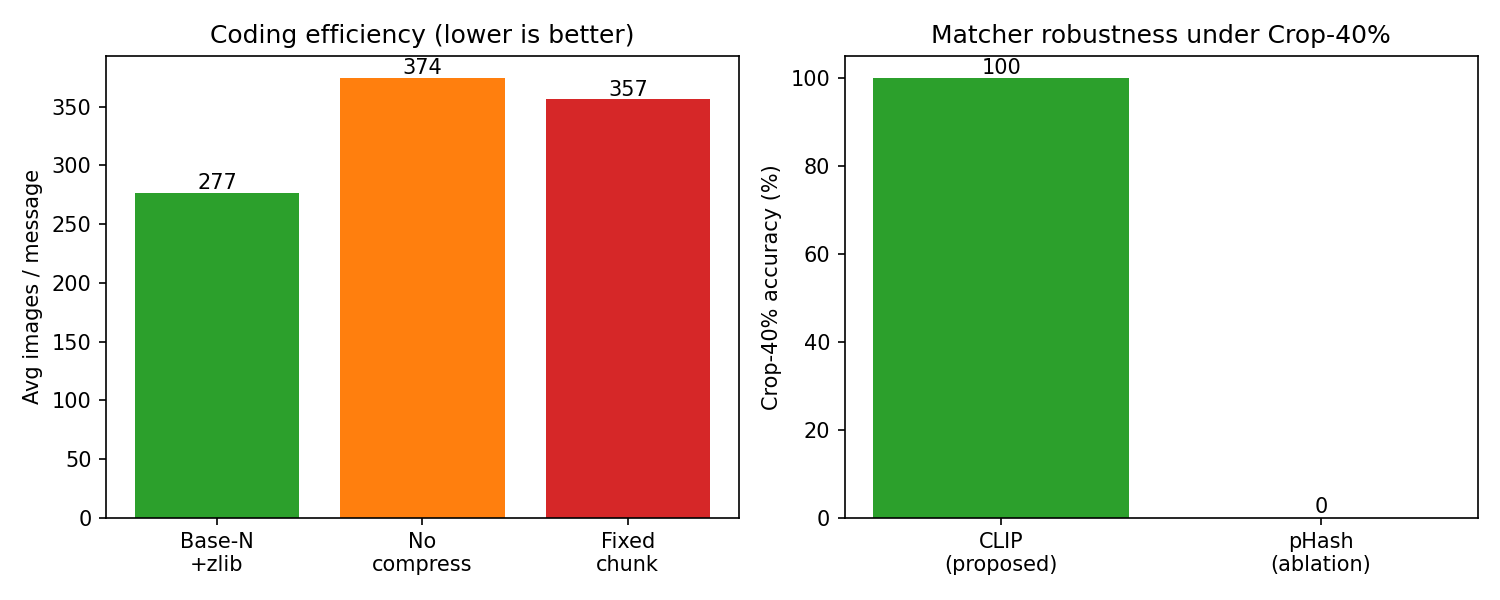
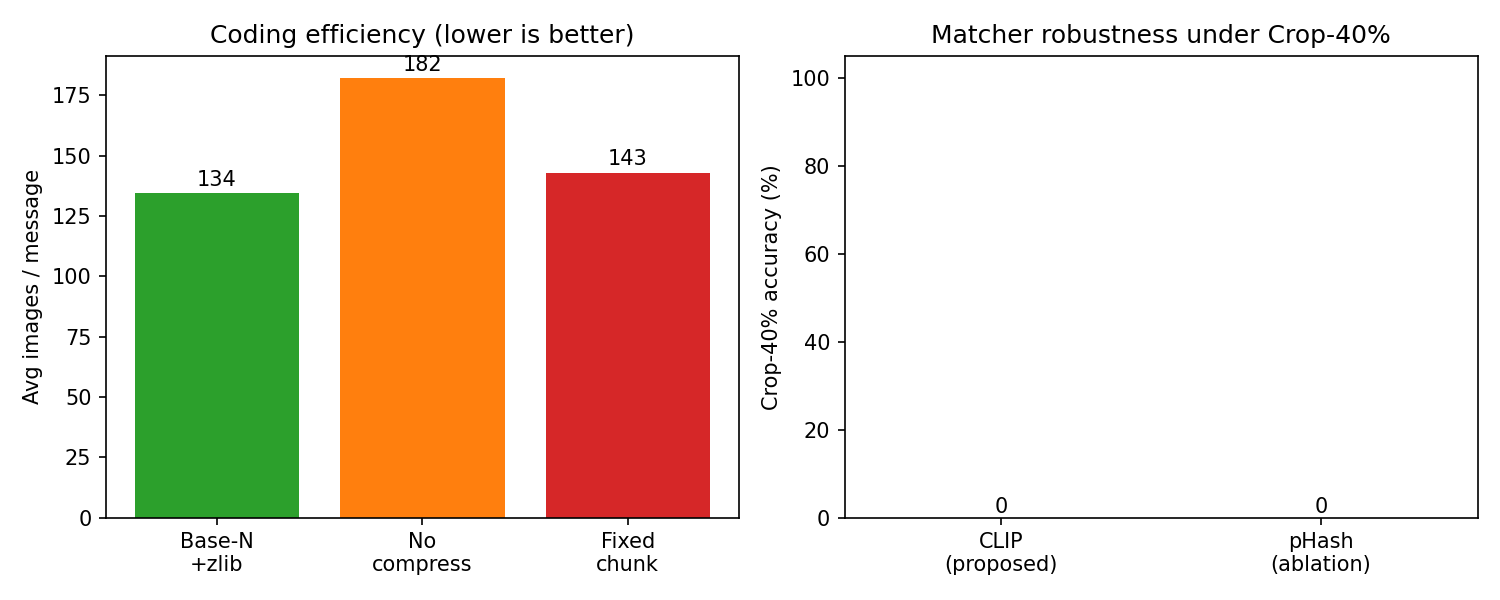
created heatmap and attacks clip pairwise heatmap

diff --git a/LG-COSH/evaluation/extra_figs.py b/LG-COSH/evaluation/extra_figs.py
@@ -20,16 +20,26 @@ def heatmap():
     M = cb["embeddings"]
     S = M @ M.T
     n = S.shape[0]
-    fig, ax = plt.subplots(figsize=(5, 4.2))
-    im = ax.imshow(S, cmap="viridis", vmin=S.min(), vmax=1.0)
-    for i in range(n):
-        for j in range(n):
-            ax.text(j, i, f"{S[i,j]:.2f}", ha="center", va="center",
-                    color="white" if S[i, j] < 0.8 else "black", fontsize=8)
-    ax.set_xticks(range(n)); ax.set_yticks(range(n))
+    off = S[~np.eye(n, dtype=bool)]
+    annotate = n <= 12                       # per-cell numbers only read well for small N
+    sz = max(6.0, 0.16 * n)                  # grow the canvas with the codebook
+    fig, ax = plt.subplots(figsize=(sz + 1.2, sz))
+    im = ax.imshow(S, cmap="viridis", vmin=float(off.min()), vmax=1.0)
+    if annotate:
+        for i in range(n):
+            for j in range(n):
+                ax.text(j, i, f"{S[i,j]:.2f}", ha="center", va="center",
+                        color="white" if S[i, j] < 0.8 else "black", fontsize=8)
+    # sparse, readable ticks (~every 5th index)
+    step = 1 if n <= 20 else 5
+    ticks = list(range(0, n, step))
+    ax.set_xticks(ticks); ax.set_yticks(ticks)
+    ax.tick_params(labelsize=8)
     ax.set_xlabel("Codebook image index"); ax.set_ylabel("Codebook image index")
-    ax.set_title("CLIP pairwise cosine similarity (codebook separation)")
-    fig.colorbar(im, ax=ax, fraction=0.046, pad=0.04)
+    ax.set_title(f"CLIP pairwise cosine similarity ($N={n}$ codebook, "
+                 f"max off-diagonal {off.max():.3f} $<\\tau{{=}}0.85$)")
+    cb_ = fig.colorbar(im, ax=ax, fraction=0.046, pad=0.04)
+    cb_.set_label("cosine similarity")
     out = f"{C.FIG_DIR}/fig_cb_heatmap.png"
     fig.tight_layout(); fig.savefig(out, dpi=150); plt.close(fig)
     print("saved", out)
